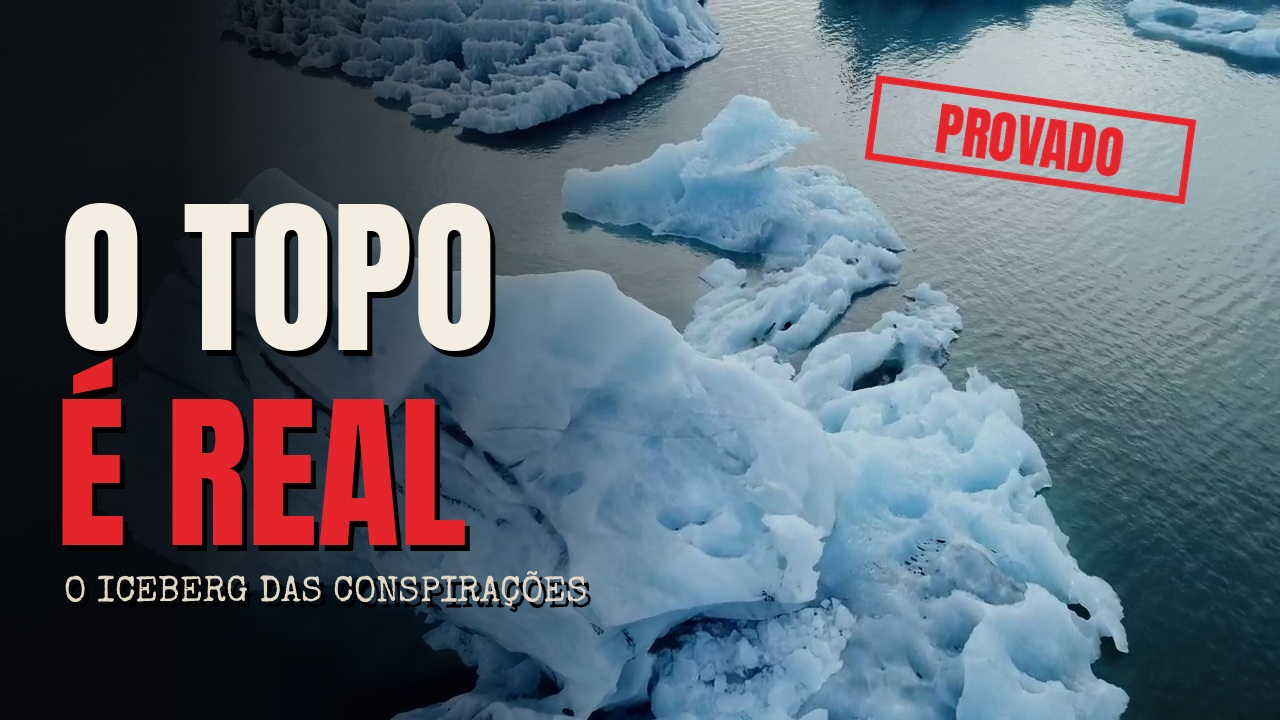
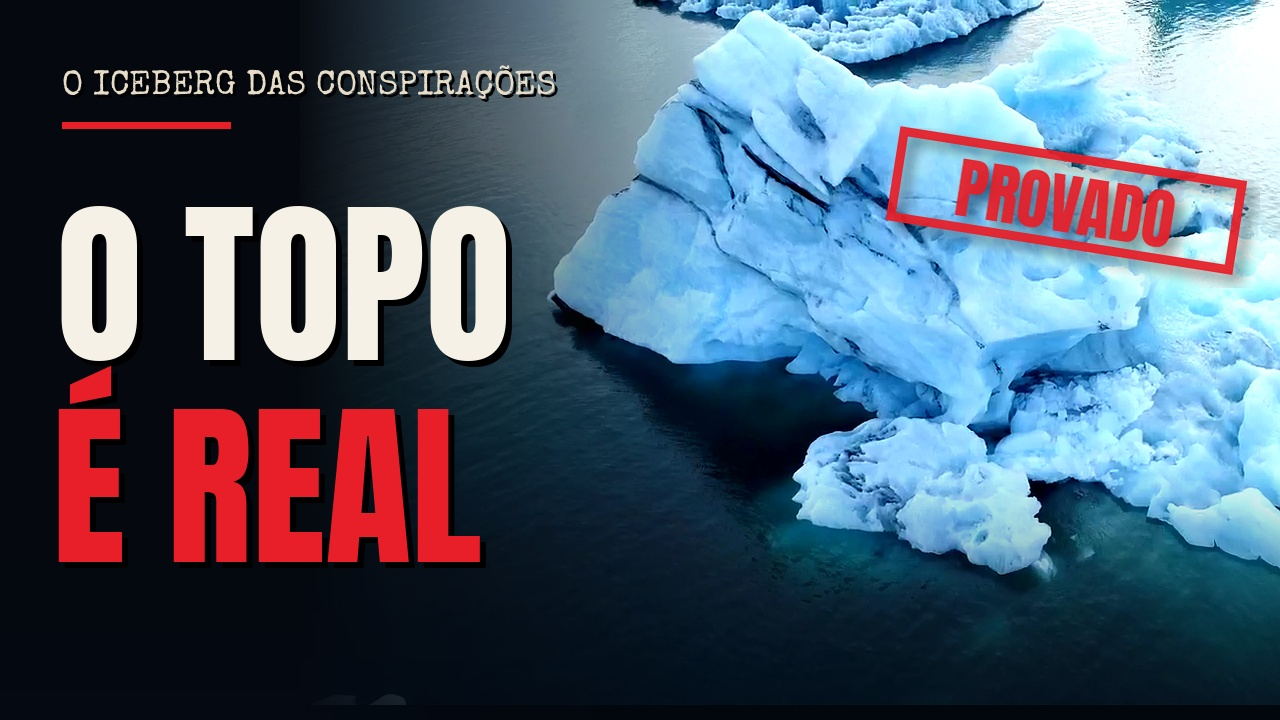
Iceberg: capa nova com iceberg real em destaque e texto sobre a água escura
Claude-Session: https://claude.ai/code/session_01MQeDi2WJVK98y41AHKQNdC

diff --git a/04-projetos/2026-11-23-iceberg-das-conspiracoes/capa/capa.py b/04-projetos/2026-11-23-iceberg-das-conspiracoes/capa/capa.py
@@ -1,20 +1,33 @@
-"""Capa do Iceberg das Conspirações (1280x720): foto real de iceberg (Mixkit), carimbo e frase curta."""
-from PIL import Image, ImageDraw, ImageFont, ImageEnhance
-import pathlib
+"""Capa do Iceberg das Conspirações (1280x720): filmagem real de iceberg (Mixkit) com a parte submersa visível,
+carimbo "PROVADO" sobre o topo do gelo e frase curta. Sem imagem gerada por IA."""
+from PIL import Image, ImageDraw, ImageFont, ImageEnhance, ImageFilter, ImageChops
+import pathlib, sys
 F = pathlib.Path("/home/user/estudio-ia/05-biblioteca/fontes"); W, H = 1280, 720
 an = lambda s: ImageFont.truetype(str(F / "font1.ttf"), s); mq = lambda s: ImageFont.truetype(str(F / "font2.ttf"), s)
-CREAM, RED = (244, 238, 226), (230, 36, 44)
-im = Image.open("/home/user/mk/ice/quadros/mx25244_25.png").convert("RGB").resize((W, H), Image.LANCZOS)
-im = ImageEnhance.Contrast(ImageEnhance.Brightness(im).enhance(0.8)).enhance(1.15)
-g = Image.new("L", (W, 1))
-for x in range(W): g.putpixel((x, 0), int(235 * max(0, min(1, (700 - x) / 520))))
-im = Image.composite(Image.new("RGB", (W, H), (6, 8, 12)), im, g.resize((W, H)))
-im = im.convert("RGBA")
-st = Image.new("RGBA", (330, 92), (0, 0, 0, 0)); sd = ImageDraw.Draw(st); sd.rectangle([4, 4, 326, 88], outline=RED, width=7)
-f = an(56); w = sd.textlength("PROVADO", font=f); sd.text(((330 - w) / 2, 6), "PROVADO", font=f, fill=RED)
-st = st.rotate(-8, expand=True, resample=Image.BICUBIC); im.alpha_composite(st, (860, 70))
+CREAM, RED = (246, 241, 230), (232, 30, 40)
+src = sys.argv[1] if len(sys.argv) > 1 else "/home/user/mk/ice/quadros/capa_18.5.png"
+im = Image.open(src).convert("RGB")
+# iceberg para a direita: amplia 18% e desloca
+z = 0.98; im = im.resize((int(im.width * z), int(im.height * z)), Image.LANCZOS)
+base = Image.new("RGB", (W, H), (8, 22, 30)); base.paste(im.crop((0, 0, W - 300, H)), (300, 0)); im = base
+im = ImageEnhance.Contrast(im).enhance(1.25); im = ImageEnhance.Color(im).enhance(1.35); im = ImageEnhance.Sharpness(im).enhance(1.5)
+# escurece a esquerda (texto) e o fundo da imagem (a parte "submersa")
+mL = Image.new("L", (W, 1)); [mL.putpixel((x, 0), int(250 * max(0, min(1, (720 - x) / 420)))) for x in range(W)]
+im = Image.composite(Image.new("RGB", (W, H), (5, 8, 14)), im, mL.resize((W, H)))
+mB = Image.new("L", (1, H)); [mB.putpixel((0, y), int(170 * max(0, min(1, (y - 470) / 250)))) for y in range(H)]
+im = Image.composite(Image.new("RGB", (W, H), (3, 10, 20)), im, mB.resize((W, H)))
+# vinheta
+v = Image.new("L", (W, H), 0); ImageDraw.Draw(v).ellipse([-260, -200, W + 260, H + 200], fill=255); v = v.filter(ImageFilter.GaussianBlur(120))
+im = Image.composite(im, Image.new("RGB", (W, H), (0, 0, 0)), v).convert("RGBA")
+# carimbo sobre o topo do gelo
+st = Image.new("RGBA", (360, 104), (0, 0, 0, 0)); sd = ImageDraw.Draw(st)
+sd.rectangle([5, 5, 355, 99], outline=RED + (235,), width=9); f = an(66); w = sd.textlength("PROVADO", font=f); sd.text(((360 - w) / 2, 6), "PROVADO", font=f, fill=RED + (235,))
+st = st.rotate(-9, expand=True, resample=Image.BICUBIC)
+sh = Image.new("RGBA", st.size, (0, 0, 0, 0)); sh.putalpha(st.getchannel("A").point(lambda a: a // 2)); sh = sh.filter(ImageFilter.GaussianBlur(6))
+im.alpha_composite(sh, (888, 128)); im.alpha_composite(st, (880, 120))
 d = ImageDraw.Draw(im)
-def tx(x, y, t, f, cor): d.text((x + 5, y + 6), t, font=f, fill=(0, 0, 0)); d.text((x, y), t, font=f, fill=cor)
-tx(60, 150, "O TOPO", an(170), CREAM); tx(56, 345, "É REAL", an(170), RED)
-tx(64, 575, "O ICEBERG DAS CONSPIRAÇÕES", mq(36), (225, 215, 195))
-im.convert("RGB").save("../render/capa-final.jpg", quality=94); print("ok")
+def tx(x, y, t, f, cor, s=6): d.text((x + s, y + s), t, font=f, fill=(0, 0, 0)); d.text((x, y), t, font=f, fill=cor)
+tx(62, 70, "O ICEBERG DAS CONSPIRAÇÕES", mq(34), (230, 220, 200), 3)
+d.rectangle([62, 122, 230, 128], fill=RED)
+tx(56, 150, "O TOPO", an(178), CREAM); tx(52, 352, "É REAL", an(178), RED)
+im.convert("RGB").save("../render/capa-final.jpg", quality=95); print("ok")
